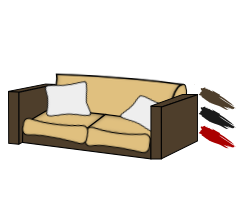
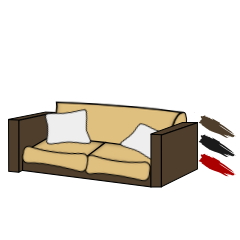
resized couch front views

Changed region(s): [[0.0292, 0.36, 0.9917, 0.81], [0.7875, 0.69, 0.8167, 0.72]]

diff --git a/src/apps/GUIApp.cc b/src/apps/GUIApp.cc
@@ -21,7 +21,7 @@ namespace ipn
 
         m_flickArea = new FlickArea(this);
         m_flickArea->move(0, 0);
-        m_flickArea->resize(240, 200);
+        m_flickArea->resize(240, 240);
         m_flickArea->setMoveAfterRelease(true);
         m_flickArea->setSnapEnabled(true);
         m_flickArea->setMovementLockEnabled(true);
@@ -43,12 +43,12 @@ namespace ipn
     void GUIApp::createFurnitureEntry(int idx, QString imagePath){
         m_clickable[idx] = new ClickableWidget(m_flickArea);
 
-        m_clickable[idx]->resize(240, 200);
+        m_clickable[idx]->resize(240, 240);
         m_clickable[idx]->move(280 * (idx%3), 0);
 
         m_image[idx] = new ImageWidget(m_clickable[idx]);
         m_image[idx]->setImage(imagePath);
-        m_image[idx]->resize(240, 200);
+        m_image[idx]->resize(240, 240);
 
         if(idx < 6 && 2 < idx){
             m_signalMapper->setMapping(m_clickable[idx], idx-3);
